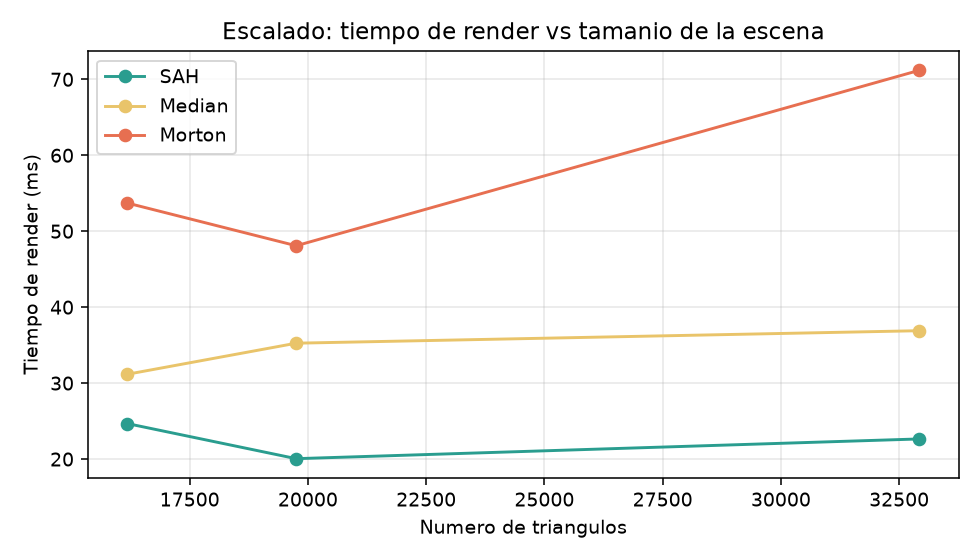
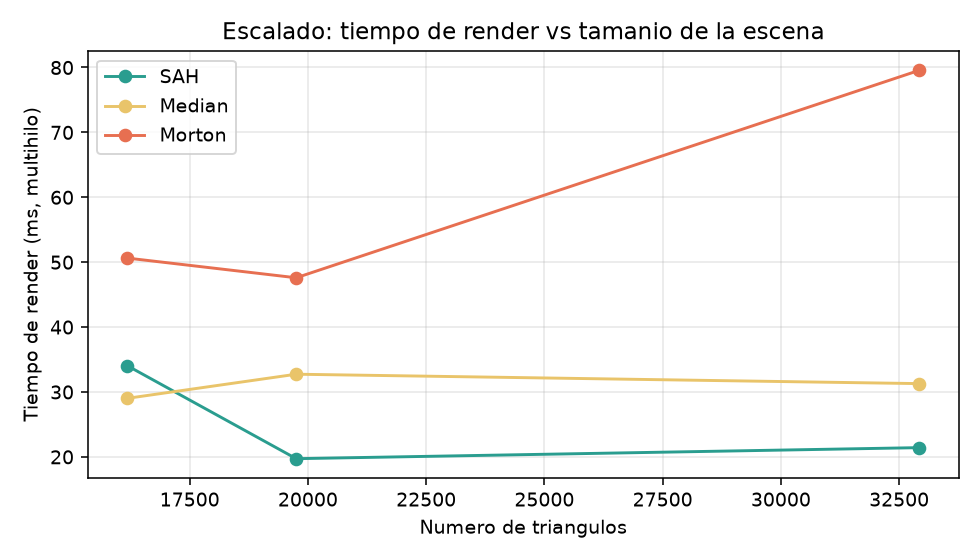
Intel Embree reference (optional): fair traversal comparison + fig_embree; updated README study section

diff --git a/src/renderer/embree_bvh.hpp b/src/renderer/embree_bvh.hpp
@@ -1,0 +1,90 @@
+#pragma once
+
+// Optional reference backend built on Intel Embree. It builds Embree's own BVH
+// over the SAME triangles our BVH uses, so the comparison study can measure our
+// SAH/Median/Morton build against the industry-standard Embree kernels.
+//
+// Compiled only when WITH_EMBREE is defined (CMake finds embree). Otherwise the
+// whole header is empty and the benchmark simply skips the Embree row, so the
+// project builds everywhere.
+#ifdef WITH_EMBREE
+
+#include <embree4/rtcore.h>
+#include <renderer/bvh.hpp>      // bvh::Tri, vec3
+#include <vector>
+
+namespace embree_ref {
+
+class Scene {
+public:
+    Scene() {
+        dev_ = rtcNewDevice(nullptr);
+        sc_  = rtcNewScene(dev_);
+    }
+    ~Scene() {
+        if (sc_)  rtcReleaseScene(sc_);
+        if (dev_) rtcReleaseDevice(dev_);
+    }
+    Scene(const Scene&)            = delete;
+    Scene& operator=(const Scene&) = delete;
+
+    // Build an Embree triangle geometry over `tris` and commit (which builds
+    // Embree's internal BVH). Vertices are stored unshared (3 per triangle) for
+    // simplicity — memory is not what we compare here.
+    void build(const std::vector<bvh::Tri>& tris) {
+        rtcReleaseScene(sc_);
+        sc_ = rtcNewScene(dev_);
+        verts_.clear();
+        idx_.clear();
+        if (tris.empty()) { rtcCommitScene(sc_); return; }
+
+        verts_.resize(tris.size() * 3 * 3);   // 3 verts * 3 floats per triangle
+        idx_.resize(tris.size() * 3);
+        for (size_t i = 0; i < tris.size(); ++i) {
+            const bvh::Tri& t = tris[i];
+            float* v = &verts_[i * 9];
+            v[0] = t.v0.x; v[1] = t.v0.y; v[2] = t.v0.z;
+            v[3] = t.v1.x; v[4] = t.v1.y; v[5] = t.v1.z;
+            v[6] = t.v2.x; v[7] = t.v2.y; v[8] = t.v2.z;
+            idx_[i * 3 + 0] = (unsigned)(i * 3 + 0);
+            idx_[i * 3 + 1] = (unsigned)(i * 3 + 1);
+            idx_[i * 3 + 2] = (unsigned)(i * 3 + 2);
+        }
+
+        RTCGeometry geom = rtcNewGeometry(dev_, RTC_GEOMETRY_TYPE_TRIANGLE);
+        rtcSetSharedGeometryBuffer(geom, RTC_BUFFER_TYPE_VERTEX, 0, RTC_FORMAT_FLOAT3,
+                                   verts_.data(), 0, 3 * sizeof(float), tris.size() * 3);
+        rtcSetSharedGeometryBuffer(geom, RTC_BUFFER_TYPE_INDEX, 0, RTC_FORMAT_UINT3,
+                                   idx_.data(), 0, 3 * sizeof(unsigned), tris.size());
+        rtcCommitGeometry(geom);
+        rtcAttachGeometry(sc_, geom);
+        rtcReleaseGeometry(geom);
+        rtcCommitScene(sc_);   // <- builds Embree's BVH
+    }
+
+    // Nearest hit. Returns true and fills `t` on hit (no shading — this backend
+    // exists to time Embree's traversal, not to render).
+    bool intersect(const vec3& o, const vec3& d, float& t) const {
+        RTCRayHit rh;
+        rh.ray.org_x = o.x; rh.ray.org_y = o.y; rh.ray.org_z = o.z;
+        rh.ray.dir_x = d.x; rh.ray.dir_y = d.y; rh.ray.dir_z = d.z;
+        rh.ray.tnear = 0.0f; rh.ray.tfar = 1e30f;
+        rh.ray.time  = 0.0f; rh.ray.mask = (unsigned)-1; rh.ray.flags = 0;
+        rh.hit.geomID = RTC_INVALID_GEOMETRY_ID;
+        RTCIntersectArguments args;
+        rtcInitIntersectArguments(&args);
+        rtcIntersect1(sc_, &rh, &args);
+        if (rh.hit.geomID == RTC_INVALID_GEOMETRY_ID) return false;
+        t = rh.ray.tfar;
+        return true;
+    }
+
+private:
+    RTCDevice          dev_ = nullptr;
+    RTCScene           sc_  = nullptr;
+    std::vector<float> verts_;   // backing storage kept alive for the geometry
+    std::vector<unsigned> idx_;
+};
+
+} // namespace embree_ref
+#endif // WITH_EMBREE

diff --git a/src/game/sr_game.cpp b/src/game/sr_game.cpp
@@ -4,6 +4,7 @@
 #include <unordered_map>
 #include <renderer/sr_renderer.hpp>
 #include <renderer/bvh.hpp>
+#include <renderer/embree_bvh.hpp>   // optional (no-op unless WITH_EMBREE)
 #include <algorithm>
 #include <string>
 #include <cmath>
@@ -1208,18 +1209,37 @@ static FrameMeas bench_frame(Game* e) {
     return { ms, nodes };
 }
 
+// Pure intersection of every primary ray against field_bvh, single-threaded and
+// with no shading. This isolates the acceleration-structure cost so it is
+// directly comparable to Embree's rtcIntersect1 (which also shades nothing here).
+static double traversal_only(Game* e) {
+    e->cam.rotation();
+    const camera& cam = e->cam;
+    int W = e->fb.width, H = e->fb.height;
+    uint64_t t0 = SDL_GetPerformanceCounter();
+    for (int y = 0; y < H; ++y)
+        for (int x = 0; x < W; ++x) {
+            vec3 dir = get_ray_direction(cam, x, y, W, H);
+            bvh::Hit h;
+            e->field_bvh.intersect(cam._position, dir, h);
+        }
+    return (SDL_GetPerformanceCounter() - t0) * 1000.0 / SDL_GetPerformanceFrequency();
+}
+
 void run_benchmark(Game* e) {
     e->raytrace_mode = true;
     e->use_bvh = true;
     const char* sn[] = { "SAH", "Median", "Morton" };
     const char* dn[] = { "Small", "Medium", "Large" };
-    const int   WARMUP = 3, MEASURE = 10;
+    const int   WARMUP = 3, MEASURE = 10, TRAV = 5;
 
     std::ofstream csv("docs/benchmark.csv");
-    csv << "strategy,density,tris,node_count,build_ms,render_ms,nodes_per_ray\n";
+    csv << "strategy,density,tris,node_count,build_ms,render_ms,traversal_ms,nodes_per_ray\n";
 
     std::cout << "\n=========== BENCHMARK (warmup " << WARMUP << " + avg "
               << MEASURE << " frames) ===========\n";
+
+    // --- Our build strategies (SAH / Median / Morton) ---
     for (int s = 0; s < 3; ++s)
         for (int d = 0; d < 3; ++d) {
             e->build_strategy = (bvh::BuildStrategy)s;
@@ -1236,17 +1256,65 @@ void run_benchmark(Game* e) {
             double ravg = rsum / MEASURE;
             long   rays = (long)e->fb.width * e->fb.height;
             double npr  = rays > 0 ? (double)nsum / MEASURE / rays : 0.0;
+            // pure single-threaded traversal (comparable to Embree)
+            double trav = 0; for (int i = 0; i < TRAV; ++i) trav += traversal_only(e);
+            trav /= TRAV;
+
             size_t tris = e->field_bvh.triangle_count();
             size_t nn   = e->field_bvh.node_count();
-
             std::cout << sn[s] << "\t" << dn[d]
                       << "\ttris=" << tris << "\tnodes=" << nn
                       << "\tbuild=" << e->field_build_ms << "ms"
                       << "\trender=" << ravg << "ms"
+                      << "\ttrav=" << trav << "ms"
                       << "\tn/ray=" << npr << "\n";
             csv << sn[s] << "," << dn[d] << "," << tris << "," << nn << ","
-                << e->field_build_ms << "," << ravg << "," << npr << "\n";
+                << e->field_build_ms << "," << ravg << "," << trav << "," << npr << "\n";
         }
+
+#ifdef WITH_EMBREE
+    // --- Intel Embree (external reference) on the SAME geometry ---
+    std::cout << "--- Embree (external reference) ---\n";
+    e->cam.rotation();
+    const camera& cam = e->cam;
+    int W = e->fb.width, H = e->fb.height;
+    for (int d = 0; d < 3; ++d) {
+        e->density = d;
+        e->build_strategy = bvh::SAH;
+        rebuild_field(e);
+
+        std::vector<bvh::Tri> tris(e->field_bvh.triangle_count());
+        for (size_t i = 0; i < tris.size(); ++i) tris[i] = e->field_bvh.tri(i);
+
+        embree_ref::Scene esc;
+        uint64_t tb = SDL_GetPerformanceCounter();
+        esc.build(tris);
+        double ebuild = (SDL_GetPerformanceCounter() - tb) * 1000.0 / SDL_GetPerformanceFrequency();
+
+        auto embree_traverse = [&]() {
+            uint64_t t0 = SDL_GetPerformanceCounter();
+            for (int y = 0; y < H; ++y)
+                for (int x = 0; x < W; ++x) {
+                    vec3 dir = get_ray_direction(cam, x, y, W, H);
+                    float t; esc.intersect(cam._position, dir, t);
+                }
+            return (SDL_GetPerformanceCounter() - t0) * 1000.0 / SDL_GetPerformanceFrequency();
+        };
+        for (int i = 0; i < WARMUP; ++i) embree_traverse();
+        double etrav = 0; for (int i = 0; i < TRAV; ++i) etrav += embree_traverse();
+        etrav /= TRAV;
+
+        std::cout << "Embree\t" << dn[d]
+                  << "\ttris=" << tris.size()
+                  << "\tbuild=" << ebuild << "ms"
+                  << "\ttrav=" << etrav << "ms\n";
+        csv << "Embree," << dn[d] << "," << tris.size() << ",0,"
+            << ebuild << ",0," << etrav << ",0\n";
+    }
+#else
+    std::cout << "(build without WITH_EMBREE -> Embree row skipped)\n";
+#endif
+
     std::cout << "=========== done -> docs/benchmark.csv ===========\n\n";
 }
 

diff --git a/docs/plot.py b/docs/plot.py
@@ -54,13 +54,32 @@ fig.tight_layout(); fig.savefig(os.path.join(HERE, "fig_quality.png"), dpi=140);
 # ---- Figure 3: scaling — render time vs triangle count ----------------------
 fig, ax = plt.subplots(figsize=(7,4))
 for s in STRAT:
-    pts = sorted([(r["tris"], r["render_ms"]) for r in rows if r["strategy"]==s])
+    pts = sorted([(r["tris"], r["render_ms"]) for r in rows if r["strategy"]==s and r["render_ms"]>0])
     xs = [p[0] for p in pts]; ys = [p[1] for p in pts]
     ax.plot(xs, ys, "-o", color=COLOR[s], label=s)
 ax.set_xlabel("Numero de triangulos")
-ax.set_ylabel("Tiempo de render (ms)")
+ax.set_ylabel("Tiempo de render (ms, multihilo)")
 ax.set_title("Escalado: tiempo de render vs tamanio de la escena")
 ax.grid(alpha=0.3); ax.legend()
 fig.tight_layout(); fig.savefig(os.path.join(HERE, "fig_scaling.png"), dpi=140); plt.close(fig)
 
-print("wrote: fig_tradeoff.png, fig_quality.png, fig_scaling.png in", HERE)
+# ---- Figure 4: traversal cost vs Intel Embree (Medium density) ---------------
+# Pure single-threaded intersection of all primary rays -> apples-to-apples
+# against Embree's kernels on the same geometry.
+import numpy as np
+fig, ax = plt.subplots(figsize=(7,4))
+vals, labs, cols = [], [], []
+for s in STRAT + ["Embree"]:
+    rs = [r["traversal_ms"] for r in rows if r["strategy"]==s and r["density"]=="Medium"]
+    if not rs: continue
+    vals.append(rs[0]); labs.append(s)
+    cols.append(COLOR.get(s, "#264653"))
+ax.bar(labs, vals, color=cols)
+for i, v in enumerate(vals):
+    ax.text(i, v, f"{v:.1f}", ha="center", va="bottom", fontweight="bold")
+ax.set_ylabel("Traversal (ms) — menos es mejor")
+ax.set_title("Costo de traversal vs Intel Embree (escena Medium, mismo geometry)")
+ax.grid(axis="y", alpha=0.3)
+fig.tight_layout(); fig.savefig(os.path.join(HERE, "fig_embree.png"), dpi=140); plt.close(fig)
+
+print("wrote: fig_tradeoff.png, fig_quality.png, fig_scaling.png, fig_embree.png in", HERE)

diff --git a/README.md b/README.md
@@ -43,16 +43,33 @@ docs/                           # informe (LaTeX)
 
 ## Dependencias
 
-- **SDL2** (única dependencia). Opcionalmente `SDL2_mixer` si se reactiva el
+- **SDL2** (única dependencia obligatoria). Opcionalmente `SDL2_mixer` si se reactiva el
   sonido (desactivado en este repo).
+- **Intel Embree 4** (opcional) — referencia externa del estudio. Si está instalado,
+  se detecta solo y el benchmark añade una fila "Embree".
 
 Instalación:
 
 | Plataforma | Comando |
 |---|---|
-| macOS (Homebrew) | `brew install sdl2` |
-| Windows | descargar las *development libraries* de SDL2 (MSVC o MinGW) |
-| Linux (Debian/Ubuntu) | `sudo apt install libsdl2-dev` |
+| macOS (Homebrew) | `brew install sdl2 embree` |
+| Windows | SDL2 dev libs + Embree (binarios oficiales) |
+| Linux (Debian/Ubuntu) | `sudo apt install libsdl2-dev libembree-dev` |
+
+## Estudio comparativo (benchmark)
+
+Compara las estrategias de construcción del BVH y la referencia Embree sobre la
+misma geometría, midiendo tiempo de build, render, **traversal puro** y **nodos
+visitados por rayo**:
+
+```sh
+./build/bin/bvh_raytracer --bench          # genera docs/benchmark.csv
+python3 docs/plot.py                       # genera las figuras docs/*.png
+```
+
+Resultado (resumen): SAH da el árbol de mejor calidad (menos nodos/ray); Morton
+construye más rápido pero da el peor árbol; los kernels SIMD de Embree recorren
+~3× más rápido que nuestra mejor SAH sobre los mismos triángulos.
 
 ## Cómo compilar y ejecutar
 
@@ -87,12 +104,14 @@ central). Las superficies curvas (esferas, modelos) ya no se ven facetadas.
 
 ## Roadmap
 
-- [x] Escenas procedurales (ciudad de edificios + campo de esferas) con densidad configurable
+- [x] Escenas procedurales (ciudad + esferas) con densidad configurable
 - [x] Menú de opciones en pantalla (`[M]`)
-- [ ] Heurísticas de construcción adicionales (median split, Morton/LBVH)
-- [ ] Referencia externa con Intel Embree
-- [ ] Instrumentación de métricas (build/render, nodos visitados/rayo, memoria)
-- [ ] Mejor visualización (slider de profundidad, ruta de un rayo de debug)
+- [x] Heurísticas de construcción (SAH / Median / Morton) seleccionables
+- [x] Métricas + benchmark reproducible + gráficas comparativas
+- [x] Referencia externa Intel Embree (opcional)
+- [x] Sombreado suave + cargador OBJ
+- [ ] Visualización de la ruta de un rayo por el árbol (demo)
+- [ ] Reporte LaTeX + presentación + video
 
 ## Autores
 